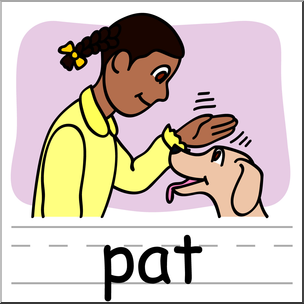
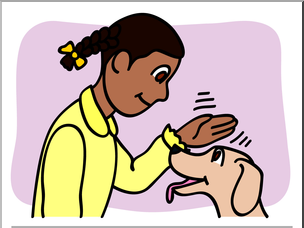
AM words: remove ham/jam (no images), keep yam+ram; updated pat image

diff --git a/app.js b/app.js
@@ -288,13 +288,10 @@ WORD_ZONE_GROUPS.forEach(group => {
 
 // ── AM word family ─────────────────────────────────────────────────────
 const AM_WORD_ITEMS = [
-    { word: "ham",  image: "images/ham.png"  },
-    { word: "jam",  image: "images/jam.png"  },
     { word: "yam",  image: "images/yam.png"  },
     { word: "ram",  image: "images/ram.png"  },
 ];
 const AM_WORD_ALL_PAIRS = [
-    ["ham","jam"],
     ["yam","ram"],
 ];
 const AM_WORD_ZONE_GROUPS = AM_WORD_ALL_PAIRS.map((pair, i) => ({

diff --git a/index.html b/index.html
@@ -150,6 +150,6 @@
 
     <script src="https://cdn.jsdelivr.net/npm/@twemoji/api@latest/dist/twemoji.min.js" crossorigin="anonymous"></script>
     <script src="https://www.youtube.com/iframe_api"></script>
-    <script src="app.js?v=78"></script>
+    <script src="app.js?v=79"></script>
 </body>
 </html>
